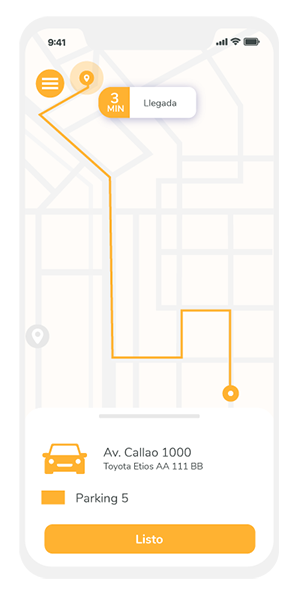
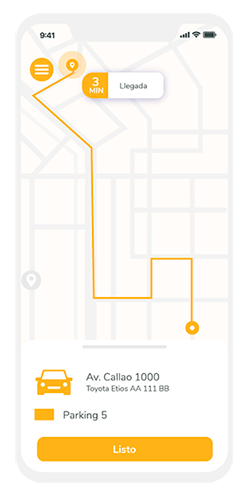
Cambio tamano smartphones

diff --git a/css/styles.css b/css/styles.css
@@ -934,11 +934,7 @@ fieldset {
     width: 25vh;
     margin-top: 50px; }
   .seccion2__phone {
-<<<<<<< HEAD
-    width: 25%;
-=======
->>>>>>> b583dce072fc1ee87d97bb456696352ee553eead
-    margin-bottom: 50px; }
+    margin-bottom: 30px; }
   .seccion2__p {
     text-align: center;
     color: White;
@@ -970,9 +966,6 @@ fieldset {
     margin-top: -10px; }
   .imgSeparador {
     display: none; }
-  .seccion4__phone {
-    width: 25vh;
-    margin-bottom: 50px; }
   .seccion4__h2 {
     color: #f6b140;
     font-family: "Nunito", sans-serif;
@@ -1130,8 +1123,7 @@ fieldset {
   .rowHeroDescargar {
     margin-top: 50px; }
   .seccion4__phone {
-    width: 25vh;
-    margin-bottom: 0; }
+    margin-bottom: 30px; }
   .h1DescargarApp {
     color: white;
     font-family: "Nunito", sans-serif;
@@ -1179,7 +1171,7 @@ fieldset {
     font-size: 1.6rem;
     padding: 10px 20px 10px 20px;
     margin-top: 20px; }
-  /* FIN PAGINA CONTACTO */
+  /* FIN PAGINA CONTACTO */ }
 
 @media (min-width: 576px) and (max-width: 767px) {
   /* PAGINA INICIO */
@@ -1266,7 +1258,6 @@ fieldset {
   .imgSeparador {
     display: none; }
   .seccion4__phone {
-    width: 25vh;
     margin-bottom: 50px; }
   .seccion4__h2 {
     color: #f6b140;
@@ -1421,7 +1412,6 @@ fieldset {
   .rowHeroDescargar {
     margin-top: 50px; }
   .seccion4__phone {
-    width: 25vh;
     margin-bottom: 0; }
   .h1DescargarApp {
     color: white;
@@ -1546,7 +1536,6 @@ fieldset {
   .imgSeparador {
     display: none; }
   .seccion4__phone {
-    width: 25vh;
     margin-bottom: 50px; }
   .seccion4__h2 {
     color: #f6b140;

diff --git a/scss/main.scss b/scss/main.scss
@@ -919,8 +919,7 @@
       }
   
       .seccion2__phone {
-        width: 25%;
-        margin-bottom: 50px;
+        margin-bottom: 30px;
       }
   
       .seccion2__p {
@@ -962,11 +961,6 @@
 
       .imgSeparador {
         display: none;
-      }
-  
-      .seccion4__phone {
-        width: 25vh;
-        margin-bottom: 50px;
       }
   
       .seccion4__h2 {
@@ -1196,8 +1190,7 @@
     }
   
     .seccion4__phone{
-      width: 25vh;
-      margin-bottom: 0;
+      margin-bottom: 30px;
     }
     
     .h1DescargarApp {
@@ -1383,7 +1376,6 @@
   }
   
   .seccion4__phone {
-    width: 25vh;
     margin-bottom: 50px;
   }
 
@@ -1606,7 +1598,6 @@
     }
   
     .seccion4__phone{
-      width: 25vh;
       margin-bottom: 0;
     }
     
@@ -1778,7 +1769,6 @@
     }
   
     .seccion4__phone {
-      width: 25vh;
       margin-bottom: 50px;
     }
 

diff --git a/caracteristicas.html b/caracteristicas.html
@@ -43,7 +43,7 @@
 
     <div class="row align-items-center justify-content-center rowCaracteristicas">
       <div class="col-sm-12 col-md-12 col-lg-4 d-flex justify-content-center">
-        <img class="img-fluid phoneCaracteristicas animate__animated animate__fadeInDown animate__slow"
+        <img class="img-fluid seccion2__phone animate__animated animate__fadeInDown animate__slow"
           src="imagenes/caracteristicasphone.png" alt="">
       </div>
       <div class="col-sm-12 col-md-12 col-lg-4 col2Caracteristicas animate__animated animate__fadeInUp animate__slow">

diff --git a/index.html b/index.html
@@ -69,7 +69,7 @@
   <div id="secCaracteristicas" class="container-fluid seccion2">
     <div class="row align-items-center justify-content-center">
       <div class="col-sm-12 col-md-12 col-lg-4 d-flex justify-content-center">
-        <img src="imagenes/caracteristicasphone.png" alt="" class="seccion2__phone" />
+        <img src="imagenes/caracteristicasphone.png" alt="" class="img-fluid seccion2__phone" />
       </div>
       <div class="col-sm-12 col-md-12 col-lg-4 seccion2__col2">
         <h2 class="seccion2__h2">Características</h2>
